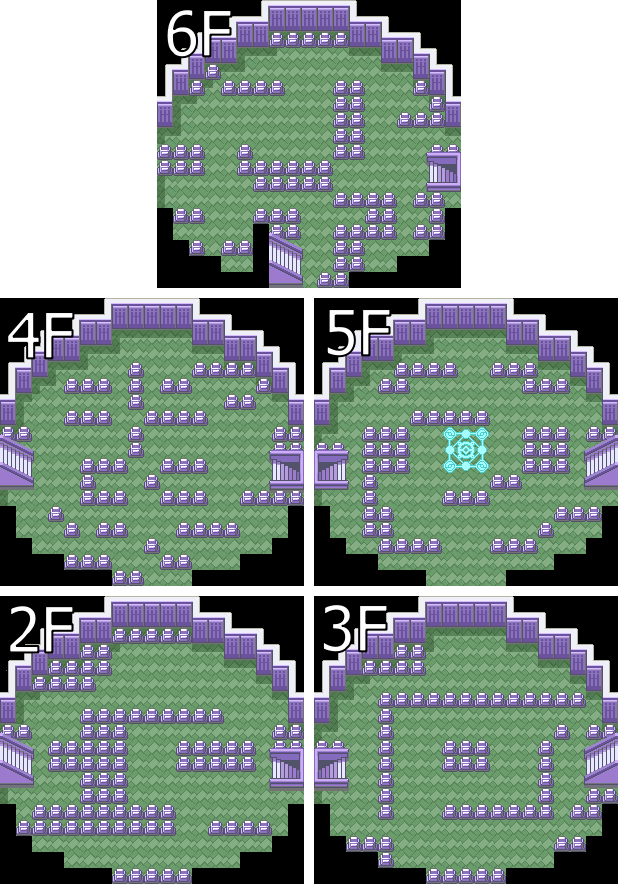
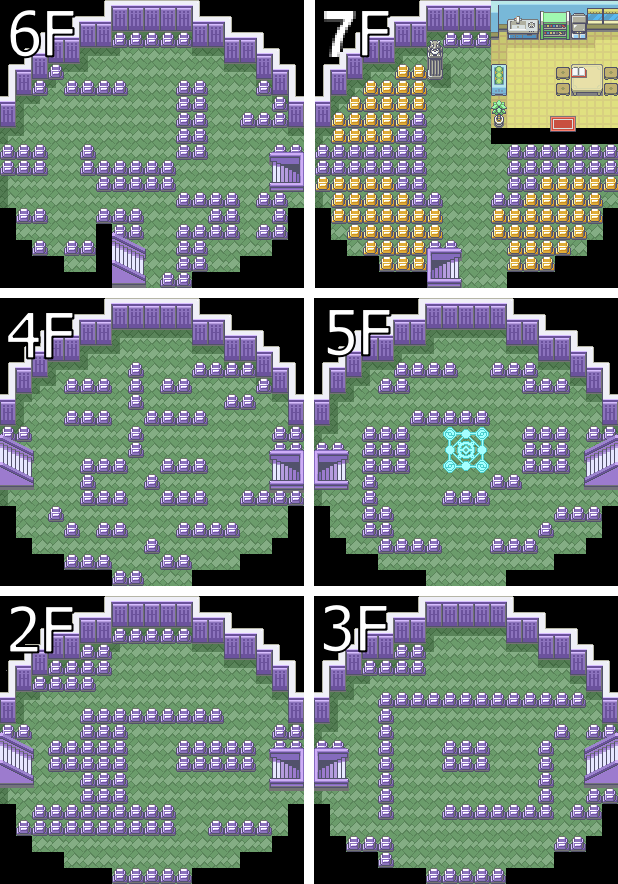
Update FRLG

Changed region(s): [[0.0, 0.0, 1.0, 0.336]]

diff --git a/data/games/frlg.js b/data/games/frlg.js
@@ -2,7 +2,7 @@ let frlg = {
     debug: false,
     name: "frlg",
     folder: "frlg",
-    start_location: "viridian",
+    start_location: "safari_zone",
     font: "GameBoy_Font",
     font_size: "22px",
 
@@ -16,6 +16,7 @@ let frlg = {
     // Tracker information
     locations: {
         // Cities
+        pallet:		      {x: 24,  y: 88,  w: 8,  h: 8,  name: "Pallet Town"												},
         viridian:         {x: 24,  y: 64,  w: 8,  h: 8,  name: "Viridian City\nRoute 22",       link_name: "Viridian City"   },
         pewter:           {x: 24,  y: 32,  w: 8,  h: 8,  name: "Pewter City"                                                 },
         cerulean:         {x: 104, y: 24,  w: 8,  h: 8,  name: "Cerulean City\nRoutes 5 & 25",  link_name: "Cerulean City"   },
@@ -39,6 +40,7 @@ let frlg = {
         r10:              {x: 136, y: 32,  w: 8,  h: 8,  name: "Route 10"                                                    },
         r12:              {x: 136, y: 72,  w: 8,  h: 8,  name: "Route 12"                                                    },
         r15:              {x: 98,  y: 96,  w: 8,  h: 8,  name: "Route 15"                                                    },
+        r23:              {x: 8,   y: 48,  w: 8,  h: 8,  name: "Route 23"                                                    },
 
         // Important locations
         cerulean_cave:    {x: 96,  y: 16,  w: 8,  h: 8,  name: "Cerulean Cave"                                               },
@@ -50,12 +52,14 @@ let frlg = {
         mt_ember:         {x: 24,  y: 128, w: 8,  h: 8,  name: "Mt. Ember"                                                   },
         mt_moon:          {x: 64,  y: 24,  w: 8,  h: 8,  name: "Mt. Moon\nRoute 4",             link_name: "Mt. Moon"        },
         navel_rock:       {x: 48,  y: 184, w: 8,  h: 8,  name: "Navel Rock"                                                  },
-        rocket_hideout:   {x: 80,  y: 56,  w: 8,  h: 8,  name: "Rocket Hideout"                                              },
+        rocket_hideout:   {x: 80,  y: 56,  w: 8,  h: 8,  name: "Rocket Hideout\nGame Corner",   link_name: "Rocket Hideout"  },
+        safari_zone:      {x: 88,  y: 88,  w: 8,  h: 8,  name: "Safari Zone"												 },
         seafoam_islands:  {x: 56,  y: 112, w: 8,  h: 8,  name: "Seafoam Islands\nRoute 20",     link_name: "Seafoam Islands" },
         silph_1:          {x: 112, y: 48,  w: 8,  h: 8,  name: "Silph Co.\n1F to 5F",           link_name: "Silph Co."       },
         silph_2:          {x: 112, y: 40,  w: 8,  h: 8,  name: "Silph Co.\n6F to 11F",          link_name: "Silph Co."       },
         ss_anne:          {x: 104, y: 80,  w: 8,  h: 8,  name: "SS Anne"                                                     },
         victory_road:     {x: 8,   y: 32,  w: 8,  h: 8,  name: "Victory Road"                                                },
+        docks:            {x: 181, y: 56,  w: 8,  h: 8,  name: "Harbors",                       link_name: "Harbor"          },
         gates:            {x: 64,  y: 8,   w: 8,  h: 8,  name: "Gates",                         link_name: "Gate"            },
         rocktunnel1:	  {x: 128, y: 32,  w: 8,  h: 8,  name: "Rock Tunnel",                  								 },
 		rocktunnel2:	  {x: 128, y: 39,  w: 8,  h: 8,  name: "Rock Tunnel",                   							 },
@@ -102,6 +106,7 @@ let frlg = {
             r5_daycare:         {x: 774,  y: 474, name: "R5 (Cerulean)"       },
             r5_gate:            {x: 799,  y: 617, name: "R5 (Cerulean)"       },
             r5_underground:     {x: 905,  y: 558, name: "R5 (Cerulean)"       },
+            cave:			    {x: 20,   y: 175, name: "Cerulean City (cave)"       },
         },
         cerulean_cave: {
             w:                  {x: 86,   y: 230,                                                  },
@@ -227,6 +232,17 @@ let frlg = {
             r18_e:              {x: 403,  y: 307, name: "Gate (Route 18)"     },
             r18_stairs:         {x: 376,  y: 371, name: "Gate (Route 18)"     },
         },
+        docks: {
+            harone:				{x: 154,	y: 144,		name: "One Island Harbor"		},
+            hartwo:				{x: 310,	y: 144,		name: "Two Island Harbor"		},
+            harthree:			{x: 540,	y: 144,		name: "Three Island Harbor"		},
+            harfour:			{x: 648,	y: 144,		name: "Four Island Harbor"		},
+            harfive:			{x: 250,	y: 296,		name: "Five Island Harbor"		},
+            harsix:				{x: 432,	y: 312,		name: "Six Island Harbor"		},
+            harseven:			{x: 600,	y: 312,		name: "Seven Island Harbor"     },
+            harbirth:			{x: 310,	y: 480,		name: "Birth Island Harbor"     },
+            harnavel:			{x: 540,	y: 480,		name: "Navel Island Harbor"     },
+        },
         icefall_cave: {
             _1fb_hole:          {x: 57,   y: 72,  name: "Icefall Cave 1F B"   },
             _1fb_ladder_w:      {x: 37,   y: 152, name: "Icefall Cave 1F B"   },
@@ -338,6 +354,11 @@ let frlg = {
             cave:               {x: 539,  y: 229 },
             mt_ember:           {x: 510,  y: 81  },
         },
+        pallet: {
+            nw:                 {x: 104,  y: 120 },
+            oaklslab:           {x: 264,  y: 216 },
+            ne:                 {x: 248,  y: 120 },
+        },
         pewter: {
             sw:                 {x: 161,  y: 475 },
             center:             {x: 276,  y: 384 },
@@ -370,8 +391,14 @@ let frlg = {
             p_gate_e:           {x: 307,  y: 654, name: "R2 (Pewter)"         },
             v_gate_w:           {x: 491,  y: 293, name: "R2 (Viridian)"       },
             v_gate_e:           {x: 698,  y: 251, name: "R2 (Viridian)"       },
-            hm_bot:             {x: 582,  y: 146, name: "R2 (HM Flash)"       },
-			hm_top:             {x: 582,  y: 47,  name: "R2 (HM Flash)"       },
+            hm_bot:             {x: 582,  y: 146, corridor: "hm_bot", name: "R2 (HM Flash)"       },
+			hm_top:             {x: 582,  y: 47,  corridor: "hm_top", name: "R2 (HM Flash)"       },
+        },
+        r23: {
+            top: {x: 96, y: 554,  corridor: "bot" },
+			bot: {x: 124, y: 1074, corridor: "top" },
+            indigo: {x: 180, y: 160,  corridor: "north",   name: "Route 23 (north)" },
+			north:  {x: 296, y: 554, corridor: "indigo",  name: "Route 23 (north)" },
         },
         rocket_hideout: {
             b1f_stairs_w:       {x: 178,  y: 69,  name: "Rocket Hideout B1F"  },
@@ -379,6 +406,9 @@ let frlg = {
             b2f_stairs_nw:      {x: 797,  y: 65,  name: "Rocket Hideout B2F"  },
             b2f_stairs_ne:      {x: 917,  y: 31,  name: "Rocket Hideout B2F"  },
             b2f_stairs_s:       {x: 837,  y: 200, name: "Rocket Hideout B2F"  },
+            gc_top:		        {x: 917,  y: 364, corridor: "gc_bot", name: "Game Corner"  },
+            gc_bot:		        {x: 824,  y: 420, corridor: "gc_top", name: "Game Corner"  },
+            shop:		        {x: 160,  y: 420, corridor: "gc_top", name: "Game Corner Shop"  },
         },
         saffron: {
             gate_w:             {x: 47,   y: 376 },
@@ -394,6 +424,26 @@ let frlg = {
             nw:                 {x: 269,  y: 156 },
             dojo:               {x: 549,  y: 141 },
             gym:                {x: 647,  y: 100 },
+        },
+        safari_zone: {
+            a1_main:		{x: 1264,	y: 1080	},
+            a1_house:		{x: 1324,	y: 1024	},
+            a1_east:		{x: 1552,	y: 864	},
+            al_north:		{x: 1264,	y: 687	},
+            al_west:		{x: 948,	y: 896	},
+            a2_south:		{x: 948,	y: 432	},
+            a2_north:		{x: 948,	y: 160	},
+            a2_house:		{x: 1496,	y: 267	},
+            a3_east:		{x: 696,	y: 480	},
+            a3_southeast:	{x: 414,	y: 528	},
+            a3_south:		{x: 224,	y: 552	},
+            a3_southwest:	{x: 96,		y: 496	},
+            a3_house:		{x: 648,	y: 100	},
+            a4_north:		{x: 648,	y: 686	},
+            a4_west:		{x: 532,	y: 724	},
+            a4_east:		{x: 696,	y: 1080	},
+            a4_surf:		{x: 224,	y: 800	},
+            a4_house:		{x: 388,	y: 952	},
         },
         seafoam_islands: {
             _1f_entrance:       {x: 102,  y: 334,                           name: "Seafoam Islands 1F"  },
@@ -616,8 +666,10 @@ let frlg = {
 			f4_up:   {x: 14,  y: 431, corridor: "f4_down", name: "Pokémon Tower (4F)" },
 			f5_down: {x: 344, y: 500, corridor: "f5_up",   name: "Pokémon Tower (5F)" },
 			f5_up:   {x: 590, y: 499, corridor: "f5_down", name: "Pokémon Tower (5F)" },
-			f6_down: {x: 441, y: 134, corridor: "f6_up",   name: "Pokémon Tower (6F)" },
-			f6_up:   {x: 281, y: 218, corridor: "f6_down", name: "Pokémon Tower (6F)" },
+			f6_down: {x: 261, y: 134, corridor: "f6_up",   name: "Pokémon Tower (6F)" },
+			f6_up:   {x: 100, y: 218, corridor: "f6_down", name: "Pokémon Tower (6F)" },
+			f7_down: {x: 450, y: 218, corridor: "house",   name: "Pokémon Tower (7F)" },
+			house:   {x: 590, y: 134, corridor: "f7_down", name: "Lavender Volunteer House" },
         },
         cyclingroad: {
             top: {x: 147, y: 60,  corridor: "bot" },
